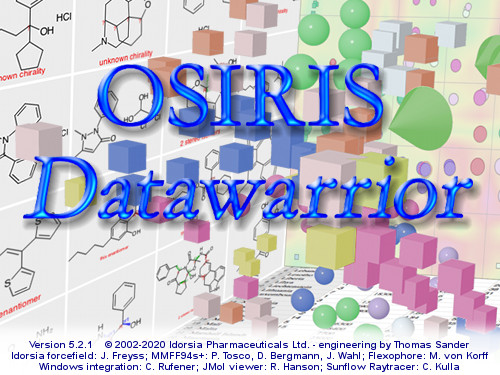
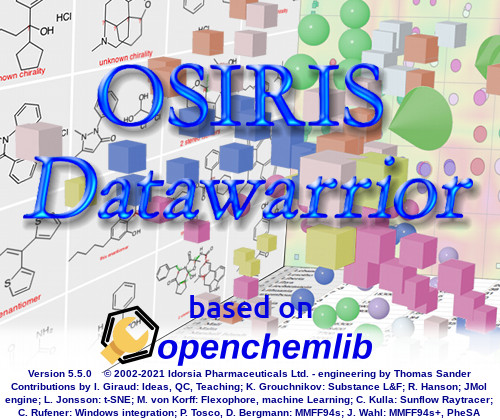
updated about image

diff --git a/src/com/actelion/research/datawarrior/DEVersionChecker.java b/src/com/actelion/research/datawarrior/DEVersionChecker.java
@@ -39,7 +39,7 @@ public class DEVersionChecker extends JDialog implements ActionListener {
 	private static final String URL2 = "http://87.102.212.253:8084";
 
 	private static final long serialVersionUID = 20140209;
-	private static final String DATAWARRIOR_VERSION = "v05.02.01";	// format v00.00.00[_beta]
+	private static final String DATAWARRIOR_VERSION = "v05.05.00";	// format v00.00.00[_beta]
 	public static void checkVersion(final Frame parent, final boolean showUpToDateMessage) {
 		new Thread(() -> {
 			Preferences prefs = DataWarrior.getPreferences();
